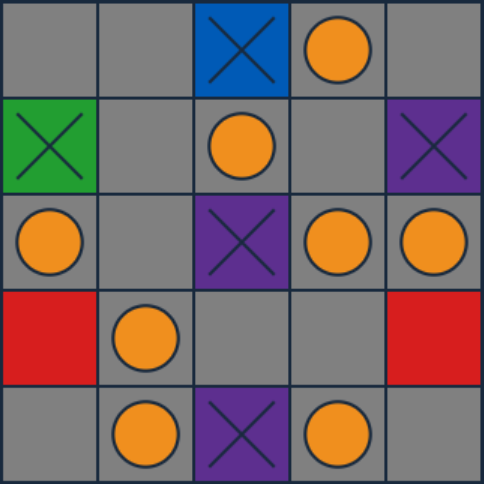
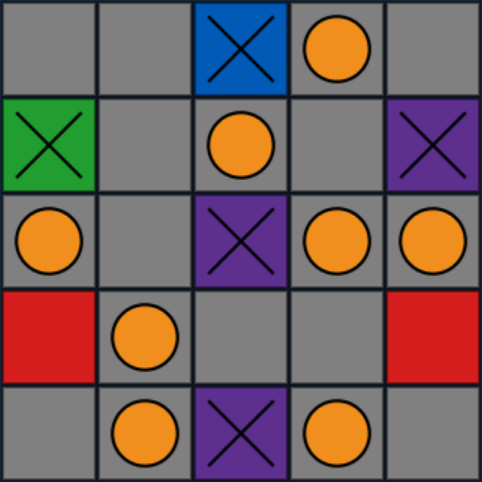
Add files via upload

diff --git a/Token.html b/Token.html
@@ -9,9 +9,9 @@ canvas.addEventListener("click", Click)
 var context = canvas.getContext("2d")
 
 const Color = {
-    Border: -1,
     Empty: 9,
     Token: 10,
+    Border: 11,
     Back: "#18293D",
     Clue: ["#808080", "#229E31", "#005AB6", "#5D2F8F", "#D71E1E"]
 }
@@ -20,6 +20,7 @@ const Layout = {
     width: 0,
     half: 0,
     radius: 0,
+    line: 0.035,
     rect: [],
 }
 
@@ -36,6 +37,10 @@ const Board = {
     side: [],
 
     Init() {
+        const param = new URLSearchParams(window.location.search)
+        if (param.has("Width")) this.width = Number(param.get("Width"))
+        if (param.has("Height")) this.height = Number(param.get("Height"))
+
         let line = this.width + 1
         this.offset = [-line - 1, -line, -line + 1, -1, 1, line - 1, line, line + 1]
         this.table = []
@@ -52,8 +57,29 @@ const Board = {
             }
         }
 
-        this.table.push(Color.Border) // last cell's bottom right neighbour 
-        this.Create()
+        this.table.push(Color.Border) // last cell's bottom right neighbour
+
+        if (param.has("Table")) {
+            let str = param.get("Table")
+            this.clue = []
+
+            for (let i = 0; i < this.rect.length && i < str.length; i++) {
+                if (str.charAt(i) == "X")
+                    this.table[this.rect[i]] = Color.Token
+                else {
+                    let k = Number(str.charAt(i))
+
+                    if (k > 0 && k < 5) {
+                        this.table[this.rect[i]] = k
+                        this.clue.push(this.rect[i])
+                    }
+                }
+            }
+
+            this.GetSide()
+        }
+
+        else this.Create()
         this.finish = this.clue.length
     },
 
@@ -88,25 +114,8 @@ const Board = {
     },
 
     Evaluate() {
-        this.side = [] // empty space around clue
-//      this.clue = []
         this.total = 0
-
-//      this.rect.forEach((n) => { // find clues
-//          let k = this.table[n]
-//          if (k >= 0 && k < 9) this.clue.push(n)
-//      })
-
-        for (let i = 0; i < this.clue.length; i++) { // find sides
-            let k = this.clue[i]
-
-            this.offset.forEach((s) => {
-                let pos = k + s;
-
-                if (this.table[pos] == Color.Empty && !this.FindSide(pos))
-                    this.side.push({pos: pos, clue: i, count: this.table[k]})
-            })
-        }
+        this.GetSide()
 
         if (this.clue.length > 0 && this.side.length > 0)
             this.Solve(0, 0) // check side 0, no token around
@@ -181,7 +190,6 @@ const Board = {
             let line = true // empty
 
             for (let x = 0, i = j; x < this.width; x++, i++) {
-
                 if (this.table[this.rect[i]] < 9) { // clue
                     line = false
                     break
@@ -238,6 +246,21 @@ const Board = {
         })
     },
 
+    GetSide() {
+        this.side = [] // empty space around clue
+
+        for (let i = 0; i < this.clue.length; i++) {
+            let k = this.clue[i]
+
+            this.offset.forEach((s) => {
+                let pos = k + s;
+
+                if (this.table[pos] == Color.Empty && !this.FindSide(pos))
+                    this.side.push({pos: pos, clue: i, count: this.table[k]})
+            })
+        }
+    },
+
     FindSide(k) {
         for (let i = 0; i < this.side.length; i++)
             if (this.side[i].pos == k) return true
@@ -246,8 +269,7 @@ const Board = {
 
     Value(i) {
         let k = this.table[i] & 15
-        if (k >= 0 && k < 9) return k
-        return -1
+        return (k < 9 ? k : -1)
     }
 }
 
@@ -259,9 +281,14 @@ function Resize() {
     canvas.width = window.innerWidth
     canvas.height = window.innerHeight
 
-    Layout.width = Math.min(canvas.width, canvas.height) / (Board.width + 1 + (Board.width - 1) * 0.035)
+    let width = Board.width + 1 + (Board.width - 1) * Layout.line
+    let height = Board.height + 1 + (Board.height - 1) * Layout.line
 
-    let pad = Math.floor(Layout.width * 0.035)
+    if (canvas.width / canvas.height <= width / height)
+        Layout.width = canvas.width / width
+    else Layout.width = canvas.height / height
+
+    let pad = Math.floor(Layout.width * Layout.line)
     if (pad == 0) pad = 1
     Layout.width = Math.floor(Layout.width)
     Layout.half = Layout.width / 2
@@ -290,16 +317,21 @@ function Draw() {
         let k2 = Board.table[Board.rect[i]]
         let k = k2 & 15
 
+        context.beginPath();
+        context.rect(Layout.rect[i].x, Layout.rect[i].y, Layout.width, Layout.width)
         context.fillStyle = Color.Clue[(k > 0 && k < 5 ? k : 0)]
-        context.fillRect(Layout.rect[i].x, Layout.rect[i].y, Layout.width, Layout.width)
+        context.fill()
+        context.lineWidth = 1
+        context.strokeStyle = "black"
+        context.stroke()
 
         if (k == Color.Token) {
             context.beginPath()
             context.arc(Layout.rect[i].x + Layout.half, Layout.rect[i].y + Layout.half, Layout.radius, 0, 2 * Math.PI)
             context.fillStyle = "#F08F1E"
             context.fill()
-            context.lineWidth = Layout.width * 0.035
-            context.strokeStyle = Color.Back
+            context.lineWidth = Layout.width * Layout.line
+            context.strokeStyle = "black" // Color.Back
             context.stroke()
         }
 
@@ -310,8 +342,8 @@ function Draw() {
             context.moveTo(Layout.rect[i].x + Layout.width * 0.85, Layout.rect[i].y + Layout.width * 0.15)
             context.lineTo(Layout.rect[i].x + Layout.width * 0.15, Layout.rect[i].y + Layout.width * 0.85)
 
-            context.lineWidth = Layout.width * 0.035
-            context.strokeStyle = Color.Back
+            context.lineWidth = Layout.width * Layout.line
+            context.strokeStyle = "black" // Color.Back
             context.stroke()
         }
     }
